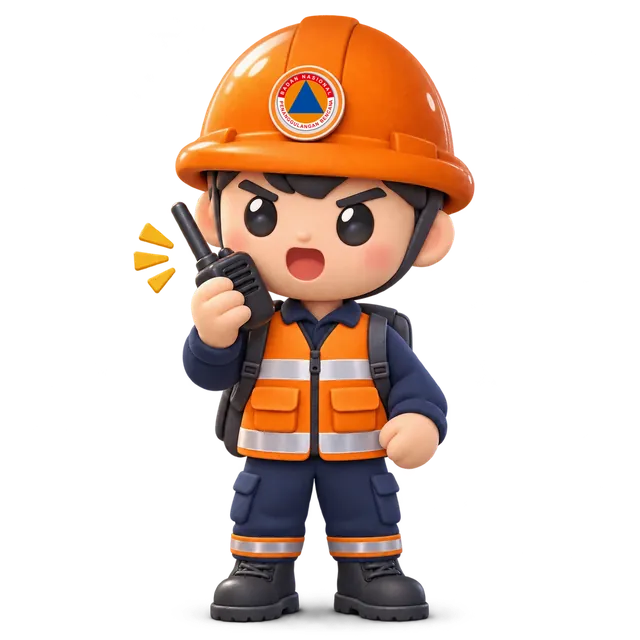
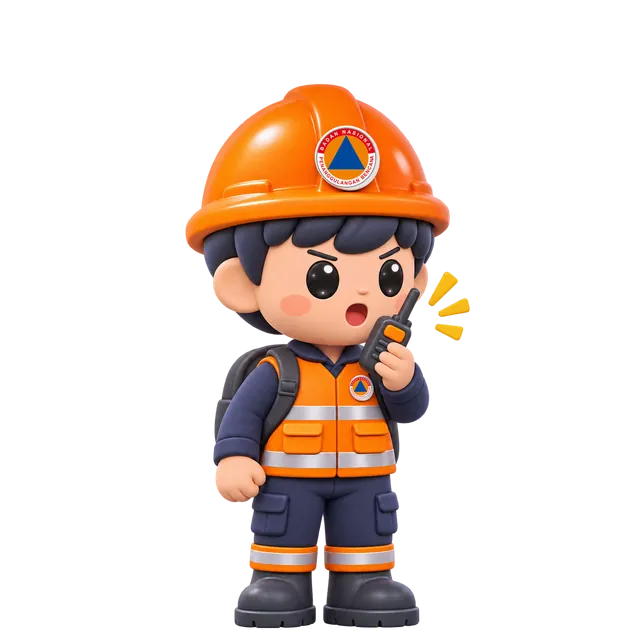
Lapor: Sigap 22 render seragam dari set baru pemilik, lambang BNPB di helm dan dada, animasi urutan bingkai
Dari 65 render pemilik dipilih yang gayanya sama; sigap.py kini menyamakan skala dari lebar helm
dan garis kaki, membuang kabut alfa, dan menempel lambang juga di lencana dada. maskot.js memutar
urutan bingkai per pose dan aksi: lambai dipudarkan, ganti pose disamarkan lompatan kecil,
berhenti sesudah dua putaran dan hidup lagi saat disentuh.

Changed region(s): [[0.1875, 0.0, 0.75, 1.0]]

diff --git a/public/lapor/maskot.js b/public/lapor/maskot.js
@@ -349,48 +349,122 @@ export function maskotSvg(pose = "sapa", judul = "", aksi = "") {   // gambar ve
 </svg>`;
 }
 
-/* ===== Sigap render 3D (pemilik 26 Nov 2026: "harusnya 3D", enam render dari pemilik, lambang BNPB ditempel di helm).
-   Gambar satu foto utuh per pose, jadi geraknya dari luar badan: napas, melayang (mk-tubuh di lapor.css), miring, lompat saat diketuk,
-   dan ganti pose bergilir dengan pudar halus bila tidak sedang menjelaskan aksi tertentu. Bingkai tetap svg.mk.sg 240x280 supaya ukuran di semua layar sama. */
+/* ===== Sigap render 3D (pemilik 26 Nov 2026: "harusnya 3D"; set kedua hari yang sama: "pastikan yang digunakan yang konsisten, dibuat animasinya").
+   22 render dipilih dari 65 kiriman pemilik: hanya yang gayanya sama (mata manik hitam, helm oranye bulat, badan chibi pendek),
+   lalu disamakan skala dan garis kakinya oleh scripts/lapor/sigap.py. Gerak dari URUTAN BINGKAI:
+   - lambai dan lambai2 satu dasar render (beda tangan saja): dipudarkan cepat bergantian jadi tangan melambai;
+   - pindah ke pose lain disamarkan dengan lompatan kecil, gambar ditukar saat badan sedang naik
+     (pemilik: "perpindahan antar animasinya jelek banget"; potong langsung antar render terlihat seperti teleport);
+   - di atasnya napas dan angguk dari CSS.
+   Gerak berhenti sendiri sesudah DUA_PUTARAN (WCAG 2.2.2), hidup lagi saat disentuh atau disorot. Bingkai tetap svg.mk.sg 240x280. */
 const FOTO = "/lapor/sigap/";
-export const POSE_FOTO = {sapa: "lambai", semangat: "lambai", senang: "lambai", sedih: "pikir", berpikir: "pikir"};
-export const AKSI_FOTO = {lapor: "hp", pasang: "hp", status: "hp", laporan: "hp", edukasi: "baca", penting: "ht", darurat: "ht", peringatan: "ht", hilang: "pikir", info: "tunjuk", bahasa: "tunjuk"};
-export const GILIR = ["lambai", "tunjuk", "hp", "baca", "pikir"];   // tanpa "ht": wajah tegang hanya untuk darurat
-export function fotoUntuk(pose = "sapa", aksi = "") { return AKSI_FOTO[aksi] || POSE_FOTO[pose] || "lambai"; }
+const LAMBAI = [["lambai2", 240], ["lambai", 240], ["lambai2", 240], ["lambai", 1800]];
+// satu urutan = [berkas, lama ms]; bingkai pertama juga yang tampil saat gerak dikurangi atau berhenti
+export const URUT = {
+  sapa: [["lambai", 1400], ...LAMBAI, ["jempol", 3200], ["lambai", 1000], ...LAMBAI],
+  semangat: [["semangat", 2600], ["lambai", 900], ...LAMBAI, ["jempol", 2600]],
+  senang: [["senang", 2600], ["jempol", 2600], ["lambai", 900], ...LAMBAI],
+  sedih: [["sedih", 0]],   // duka: satu wajah prihatin, tanpa lambai, tanpa tawa, tanpa gilir
+  berpikir: [["pikir", 3200], ["ide", 2800]],
+};
+export const AKSI_URUT = {
+  darurat: [["ht", 2600], ["tegas", 2400], ["ht2", 2600]],
+  penting: [["ht3", 2800], ["tunjuk", 2600]],
+  peringatan: [["teropong", 2800], ["stop", 2600]],
+  lapor: [["hp", 2800], ["tablet", 2800]],
+  pasang: [["hp", 2800], ["jempol2", 2400]],
+  laporan: [["tablet", 2800], ["status", 2800]],
+  status: [["status", 2800], ["jempol2", 2400]],
+  edukasi: [["ide", 2800], ["pikir", 2800]],
+  hilang: [["cari", 2800], ["teropong", 2800]],
+  info: [["tunjuk", 2800], ["ide", 2600]],
+  bahasa: [["sapa", 2600], ["tunjukkiri", 2600]],
+};
+export const TEGANG = ["ht", "ht2", "tegas", "stop"];   // wajah serius: hanya untuk aksi darurat, penting, peringatan
+const KETUK = [["semangat", 1400], ["lambai", 500], ...LAMBAI];   // diketuk: angkat tangan lalu melambai
+const SEDASAR = new Set(["lambai", "lambai2"]);
+const LONCAT = [{transform: "none"}, {transform: "translateY(2px) scale(1.05,.93)", offset: .16}, {transform: "translateY(-12px) scale(.97,1.04)", offset: .4},
+  {transform: "translateY(0) scale(1.03,.96)", offset: .7}, {transform: "none"}];
+const DUA_PUTARAN = 2;
+export function urutUntuk(pose = "sapa", aksi = "") { return AKSI_URUT[aksi] || URUT[pose] || URUT.sapa; }
+export function fotoUntuk(pose = "sapa", aksi = "") { return urutUntuk(pose, aksi)[0][0]; }
 export function maskot(pose = "sapa", judul = "", aksi = "") {
-  const f = fotoUntuk(pose, aksi), gilir = !AKSI_FOTO[aksi] && pose !== "sedih" && pose !== "berpikir";
-  const img = (k, o) => `<image href="${FOTO}${k}.webp" x="-22" y="-6" width="284" height="284" class="mk-ft"${o ? "" : ' opacity="0"'} preserveAspectRatio="xMidYMax meet"/>`;
-  return `<svg class="mk sg mk-foto" data-pose="${pose}" data-foto="${f}"${gilir ? ' data-gilir="1"' : ""} viewBox="0 0 240 280" ${judul ? `role="img" aria-label="${judul}"` : 'aria-hidden="true"'}>
+  const f = fotoUntuk(pose, aksi), a = AKSI_URUT[aksi] ? aksi : "";
+  const img = k => `<image href="${FOTO}${k}.webp" x="-22" y="-6" width="284" height="284" class="mk-ft" preserveAspectRatio="xMidYMax meet"/>`;
+  return `<svg class="mk sg mk-foto" data-pose="${pose}"${a ? ` data-aksi="${a}"` : ""} data-foto="${f}" viewBox="0 0 240 280" ${judul ? `role="img" aria-label="${judul}"` : 'aria-hidden="true"'}>
   <ellipse cx="120" cy="272" rx="62" ry="7" class="mk-bayang mk-ft-bayang"/>
-  <g class="mk-tubuh"><g class="mk-gb"><g class="mk-ftn">${img(f, true)}${gilir ? img(f, false) : ""}</g></g></g></svg>`;
+  <g class="mk-tubuh"><g class="mk-gb"><g class="mk-ftn">${img(f)}${img(f).replace('class="mk-ft"', 'class="mk-ft" opacity="0"')}</g></g></g></svg>`;
 }
 export function gayaFoto() {
   return `.mk-foto .mk-ft-bayang{fill:var(--head-bg);opacity:.28}
-.mk-foto .mk-ft{transition:opacity .45s ease}
-.mk-foto .mk-ftn{transform-box:view-box;transform-origin:120px 272px}
+.mk-foto .mk-ftn,.mk-foto .mk-gb{transform-box:view-box;transform-origin:120px 272px}
 @media (prefers-reduced-motion:no-preference){
+.mk-foto .mk-ft.mk-pudar{transition:opacity .22s linear}
 .mk-foto .mk-ftn{animation:mk-ft-napas 3.2s ease-in-out infinite}
-.mk-foto.mk-a-miring .mk-gb{transform:rotate(4deg);transition:transform .5s cubic-bezier(.3,1.4,.5,1)}
 .mk-foto.mk-a-angguk .mk-gb{animation:mk-ft-angguk .7s ease-in-out}}
 @keyframes mk-ft-napas{50%{transform:scale(1.012,.988)}}
 @keyframes mk-ft-angguk{30%{transform:translateY(4px) scale(1.03,.97)}60%{transform:translateY(-3px)}}`;
 }
-/* ganti pose bergilir: dua <image> bertumpuk, yang baru dipudarkan masuk */
-function gantiFoto(svg, k) {
-  const [a, b] = svg.querySelectorAll(".mk-ft"); if (!b || svg.dataset.foto === k) return;
+const muat = new Map();   // berkas -> Image yang sudah di-decode; dipegang supaya tukar bingkai tidak berkedip kosong
+function siapkan(daftar) {
+  return Promise.all(daftar.map(([k]) => {
+    if (!muat.has(k)) { const i = new Image(); i.src = FOTO + k + ".webp"; muat.set(k, i.decode().then(() => i, () => i)); }
+    return muat.get(k);
+  }));
+}
+/* tukar bingkai: dua <image> bertumpuk. Sedasar: yang baru naik ke atas dan dipudarkan masuk (tangan tampak bergerak), yang lama disembunyikan sesudahnya,
+   jadi tidak pernah dua-duanya setengah tembus. Beda render: badan melompat kecil, gambar ditukar langsung di fase naik saat mata tidak bisa membandingkan. */
+function tukar(svg, k, pudar) {
+  const [a, b] = svg.querySelectorAll(".mk-ft"); if (!b) return;
   const kini = a.getAttribute("opacity") === "0" ? b : a, baru = kini === a ? b : a;
-  baru.setAttribute("href", FOTO + k + ".webp"); baru.setAttribute("opacity", "1"); kini.setAttribute("opacity", "0"); svg.dataset.foto = k;
+  baru.setAttribute("href", FOTO + k + ".webp"); baru.classList.toggle("mk-pudar", pudar); kini.after(baru);
+  if (!pudar) { baru.setAttribute("opacity", "1"); kini.setAttribute("opacity", "0"); return; }
+  baru.setAttribute("opacity", "0"); baru.getBoundingClientRect(); baru.setAttribute("opacity", "1");
+  setTimeout(() => { if (baru.getAttribute("opacity") === "1") kini.setAttribute("opacity", "0"); }, 240);
+}
+function tampil(svg, k) {
+  const dulu = svg.dataset.foto; if (dulu === k) return;
+  svg.dataset.foto = k;
+  if (SEDASAR.has(k) && SEDASAR.has(dulu)) return tukar(svg, k, true);
+  const gb = svg.querySelector(".mk-gb");
+  if (!gb || !gb.animate) return tukar(svg, k, true);
+  if (svg.matches(".mk-a-lompat,.mk-a-kaget")) return void setTimeout(() => tukar(svg, k, false), 140);   // reaksi ketuk rig sudah melompatkan badan: jangan memantul dua kali
+  gb.animate(LONCAT, {duration: 520, easing: "ease-out"});
+  setTimeout(() => tukar(svg, k, false), 150);
+}
+/* satu penjadwal untuk semua maskot foto: maju ke bingkai berikutnya saat waktunya tiba, berhenti saat tab tersembunyi,
+   maskot di luar layar (mk-jeda dari IntersectionObserver rig), atau gerak dikurangi */
+let tJalan = 0;
+function jalan() {
+  clearTimeout(tJalan); if (!D || D.hidden || kurang()) return;
+  const t = performance.now(); let s = 500;
+  for (const svg of D.querySelectorAll("svg.mk-foto")) {
+    let g = svg._g;
+    if (!g) { const u = urutUntuk(svg.dataset.pose, svg.dataset.aksi); g = svg._g = {u, i: 0, t: t + u[0][1], n: 0, siap: false}; siapkan(u).then(() => { g.siap = true; g.t = performance.now() + u[0][1]; jalan(); }); }
+    const u = g.sela || g.u;
+    if (!g.siap || u.length < 2 || svg.classList.contains("mk-jeda") || g.n >= DUA_PUTARAN) continue;
+    if (t >= g.t) {
+      g.i++;
+      if (g.i >= u.length) { g.i = 0; if (g.sela) g.sela = null; else g.n++; }
+      const v = g.sela || g.u;
+      if (g.n >= DUA_PUTARAN) { tampil(svg, v[0][0]); continue; }
+      tampil(svg, v[g.i][0]); g.t = t + v[g.i][1];
+    }
+    s = Math.min(s, g.t - t);
+  }
+  tJalan = setTimeout(jalan, Math.max(30, s));
+}
+function bangunkan(svg, ketuk) {
+  const g = svg._g; if (!g) return jalan();
+  g.n = 0;
+  if (ketuk && svg.dataset.pose !== "sedih") { g.sela = KETUK; g.i = -1; g.t = 0; siapkan(KETUK); }
+  jalan();
 }
 if (D) {
   if (!D.getElementById("mk-gaya-foto")) { const s = D.createElement("style"); s.id = "mk-gaya-foto"; s.textContent = gayaFoto(); D.head.appendChild(s); }
-  for (const k of GILIR) { const l = D.createElement("link"); l.rel = "prefetch"; l.as = "image"; l.href = FOTO + k + ".webp"; D.head.appendChild(l); }
-  // satu pewaktu untuk semua maskot foto; berhenti saat tab tersembunyi atau gerak dikurangi
-  setInterval(() => { if (D.hidden || kurang()) return;
-    for (const svg of D.querySelectorAll("svg.mk-foto")) {
-      const r = svg.getBoundingClientRect(); if (!r.width || r.bottom < 0 || r.top > innerHeight || Math.random() < .45) continue;
-      const x = Math.random();
-      if (svg.dataset.gilir && x < .5) { const p = GILIR.filter(k => k !== svg.dataset.foto); gantiFoto(svg, p[Math.floor(Math.random() * p.length)]); }
-      else { const c = x < .75 ? "mk-a-miring" : "mk-a-angguk"; svg.classList.add(c); setTimeout(() => svg.classList.remove(c), 1400); }
-    }
-  }, 2600);
+  const dariFoto = e => e.target.closest && e.target.closest("svg.mk-foto");
+  D.addEventListener("click", e => { const s = dariFoto(e); if (s) bangunkan(s, true); }, {passive: true});
+  D.addEventListener("pointerover", e => { const s = dariFoto(e); if (s && s._g && s._g.n >= DUA_PUTARAN) bangunkan(s); }, {passive: true});
+  D.addEventListener("visibilitychange", jalan);
+  jalan();
 }

diff --git a/scripts/lapor/sigap.py b/scripts/lapor/sigap.py
@@ -1,10 +1,15 @@
-"""Render 3D Sigap: tempel lambang BNPB asli di lingkaran putih helm, perkecil ke 640 px, simpan WebP.
+"""Render 3D Sigap: samakan skala dan posisi, tempel lambang BNPB asli di lingkaran putih helm, simpan WebP 640 px.
 
 Pakai (data/kajian-bnpb/lapor-ai/PROMPT-SIGAP.md):
     python3 scripts/lapor/sigap.py <folder render> [nama ...]
-Berkas masukan <folder>/<nama>.webp|.png (1254x1254, latar transparan); keluaran public/lapor/sigap/<nama>.webp.
+    nama bisa grup "diam+kedip+lambai1": bingkai satu urutan diukur sekali dari bingkai pertama.
+Berkas masukan <folder>/<nama>.webp|.png (latar transparan, ukuran bebas); keluaran public/lapor/sigap/<nama>.webp.
 Tanpa nama: semua .webp/.png di folder. Butuh Pillow dan cwebp (Homebrew).
-Lingkaran dicari sebagai gumpalan putih terbesar di 45 persen atas gambar; lambang dibuat 96 persen diameternya.
+
+Supaya bingkai bisa diputar bergantian tanpa meloncat (26 Nov 2026), tiap render diskalakan dari LEBAR HELM
+(bagian badan paling tetap di semua pose, termasuk jongkok) dan digeser sehingga tengah helm di tengah kanvas
+dan ujung sepatu di garis tanah yang sama. Lingkaran lencana dicari sebagai gumpalan putih terbesar di dalam kotak helm,
+jadi gelembung pikiran putih di samping kepala tidak ikut tertempel lambang.
 """
 import subprocess
 import sys
@@ -16,22 +21,53 @@ from PIL import Image
 AKAR = Path(__file__).resolve().parents[2]
 LOGO = AKAR / "public/lapor/lambang-bnpb.png"
 KELUAR = AKAR / "public/lapor/sigap"
+SISI, HELM, TANAH = 640, 236, 628   # kanvas, lebar helm, garis ujung sepatu (piksel keluaran)
 
 
-def lingkaran(im, f=4):
-    sm = im.resize((im.width // f, im.height // f)); w, h = sm.size; px = sm.load()
-    putih = lambda x, y: (lambda r, g, b, a: a > 200 and r > 215 and g > 210 and b > 205 and max(r, g, b) - min(r, g, b) < 30)(*px[x, y])
+def oranye(r, g, b, a):
+    return a > 200 and r > 200 and 70 < g < 175 and b < 90
+
+
+def helm(im, f=2):
+    """Kotak helm (x0, y0, x1, y1) dan garis kaki: gumpalan oranye terbesar dari puncak oranye sampai 22 persen tinggi badan di bawahnya
+    (gumpalan terbesar, supaya bohlam, antena HT, atau garis gerak kuning di samping kepala tidak ikut terhitung)."""
+    sm = im.resize((im.width // f, im.height // f), Image.NEAREST); px = sm.load(); w, h = sm.size
+    bb = sm.getchannel("A").point(lambda v: 255 if v > 128 else 0).getbbox()
+    atas = next(y for y in range(h) if any(oranye(*px[x, y]) for x in range(w)))
+    batas = atas + int((bb[3] - bb[1]) * .22)
+    sisa = {(x, y) for y in range(atas, batas) for x in range(w) if oranye(*px[x, y])}; best = []
+    while sisa:
+        st = [sisa.pop()]; comp = []
+        while st:
+            c = st.pop(); comp.append(c)
+            for n in ((c[0] + 1, c[1]), (c[0] - 1, c[1]), (c[0], c[1] + 1), (c[0], c[1] - 1)):
+                if n in sisa: sisa.discard(n); st.append(n)
+        if len(comp) > len(best): best = comp
+    xs = [c[0] for c in best]; ys = [c[1] for c in best]
+    return min(xs) * f, min(ys) * f, (max(xs) + 1) * f, batas * f, bb[3] * f
+
+
+def lingkaran(im, kotak, f=4, bulat=None, terang=215):
+    """Gumpalan putih terbesar di dalam kotak; bulat=(dmin, dmax) hanya menerima gumpalan berbentuk lingkaran berdiameter itu
+    (lencana dada), supaya kertas papan klip, layar HP, atau kilau pita reflektor tidak ikut."""
+    x0, y0, x1, y1 = (v // f for v in kotak)
+    sm = im.resize((im.width // f, im.height // f)); px = sm.load()
+    putih = lambda x, y: (lambda r, g, b, a: a > 200 and r > terang and g > terang - 5 and b > terang - 10 and max(r, g, b) - min(r, g, b) < 30)(*px[x, y])
     seen, best = set(), []
-    for y in range(int(h * .45)):
-        for x in range(w):
+    for y in range(y0, y1):
+        for x in range(x0, x1):
             if (x, y) in seen or not putih(x, y):
                 continue
             st, comp = [(x, y)], []; seen.add((x, y))
             while st:
                 cx, cy = st.pop(); comp.append((cx, cy))
                 for nx, ny in ((cx + 1, cy), (cx - 1, cy), (cx, cy + 1), (cx, cy - 1)):
-                    if 0 <= nx < w and 0 <= ny < h and (nx, ny) not in seen and putih(nx, ny):
+                    if x0 <= nx < x1 and y0 <= ny < y1 and (nx, ny) not in seen and putih(nx, ny):
                         seen.add((nx, ny)); st.append((nx, ny))
+            if bulat:
+                xs = [p[0] for p in comp]; ys = [p[1] for p in comp]; w, h = max(xs) - min(xs) + 1, max(ys) - min(ys) + 1
+                if not (bulat[0] <= min(w, h) * f and max(w, h) * f <= bulat[1] and .78 < w / h < 1.28 and .6 < len(comp) / (w * h) < .92):
+                    continue
             if len(comp) > len(best):
                 best = comp
     if not best:
@@ -40,24 +76,40 @@ def lingkaran(im, f=4):
     return min(xs) * f, min(ys) * f, (max(xs) + 1) * f, (max(ys) + 1) * f
 
 
-def olah(src, nama):
+def olah(src, nama, ukur=None):
+    """ukur: hasil helm() bingkai pertama segrup; bingkai satu urutan (A+B+C) memakai skala dan geser yang sama supaya tidak berdenyut."""
     im = Image.open(src).convert("RGBA")
-    k = lingkaran(im)
-    if k:
-        x0, y0, x1, y1 = k; d = min(x1 - x0, y1 - y0) * .96
-        im.alpha_composite(Image.open(LOGO).convert("RGBA").resize((int(d), int(d)), Image.LANCZOS), (int((x0 + x1 - d) / 2), int((y0 + y1 - d) / 2)))
+    hx0, hy0, hx1, hy1, kaki = ukur or helm(im)
+    hb = helm(im)   # lencana dicari di bingkai ini sendiri walau skala dan geser dipakai bersama segrup
+    k = lingkaran(im, hb[:4])
+    tinggi, lebar = hb[4] - hb[1], hb[2] - hb[0]
+    dada = lingkaran(im, (hb[0], hb[1] + int(tinggi * .38), hb[2], hb[1] + int(tinggi * .65)), f=2, bulat=(lebar * .06, lebar * .22), terang=185)
+    for c in (k, dada):   # lambang 96 persen diameter lingkaran putih (helm dan lencana dada, pemilik 26 Nov 2026)
+        if c:
+            x0, y0, x1, y1 = c; d = min(x1 - x0, y1 - y0) * .96
+            im.alpha_composite(Image.open(LOGO).convert("RGBA").resize((int(d), int(d)), Image.LANCZOS), (int((x0 + x1 - d) / 2), int((y0 + y1 - d) / 2)))
+    im.putalpha(im.getchannel("A").point(lambda v: 0 if v < 48 else v))   # buang kabut tembus pandang di sekitar badan (tampak seperti lingkaran cahaya di latar gelap)
+    s = HELM / (hx1 - hx0)
+    im = im.resize((round(im.width * s), round(im.height * s)), Image.LANCZOS)
+    kanvas = Image.new("RGBA", (SISI, SISI))
+    dx, dy = round(SISI / 2 - (hx0 + hx1) / 2 * s), round(TANAH - kaki * s)
+    kanvas.alpha_composite(im, (max(dx, 0), max(dy, 0)), (max(-dx, 0), max(-dy, 0)))
+    bb = kanvas.getchannel("A").getbbox(); kepotong = bb and (bb[0] == 0 or bb[1] == 0 or bb[2] == SISI)
     with tempfile.TemporaryDirectory() as t:
-        png = Path(t) / "a.png"; im.resize((640, 640), Image.LANCZOS).save(png)
+        png = Path(t) / "a.png"; kanvas.save(png)
         subprocess.run(["cwebp", "-quiet", "-q", "80", "-alpha_q", "85", "-m", "6", str(png), "-o", str(KELUAR / f"{nama}.webp")], check=True)
-    print(nama, "lambang" if k else "TANPA lingkaran putih", (KELUAR / f"{nama}.webp").stat().st_size // 1024, "KB")
+    print(nama, "helm" if k else "TANPA lencana helm", "dada" if dada else "TANPA lencana dada", f"skala {s:.3f}", "TERPOTONG" if kepotong else "", (KELUAR / f"{nama}.webp").stat().st_size // 1024, "KB")
+    return hx0, hy0, hx1, hy1, kaki
 
 
 if __name__ == "__main__":
     folder = Path(sys.argv[1]); KELUAR.mkdir(parents=True, exist_ok=True)
     daftar = sys.argv[2:] or sorted({p.stem for p in folder.iterdir() if p.suffix in (".webp", ".png")})
-    for n in daftar:
-        src = next((folder / f"{n}{e}" for e in (".webp", ".png") if (folder / f"{n}{e}").exists()), None)
-        if src:
-            olah(src, n)
-        else:
-            print(n, "tidak ada")
+    for grup in daftar:   # "a+b+c" = satu urutan bingkai dengan ukuran bersama
+        ukur = None
+        for n in grup.split("+"):
+            src = next((folder / f"{n}{e}" for e in (".webp", ".png") if (folder / f"{n}{e}").exists()), None)
+            if src:
+                ukur = olah(src, n, ukur)
+            else:
+                print(n, "tidak ada")
